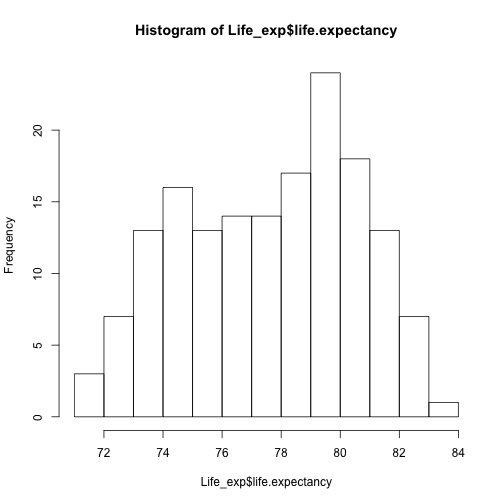
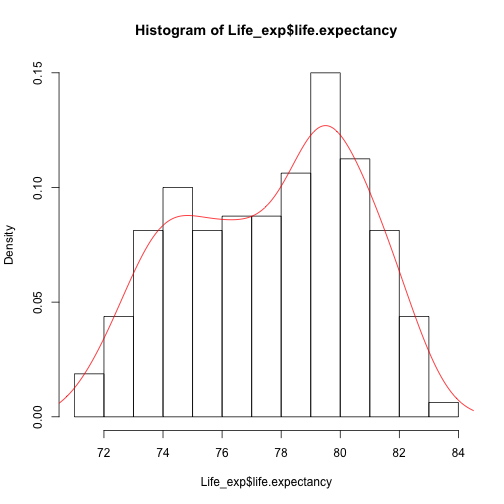
session1

diff --git a/Statistics2016/Session1_describe_the_data.md b/Statistics2016/Session1_describe_the_data.md
@@ -96,22 +96,22 @@ Data Source: Office for National Statistics
 Load data
 
 ```r
-Life_exp<-read.csv("data/Life_expectancy_at_birth.csv",header=T)
+> Life_exp<-read.csv("data/Life_expectancy_at_birth.csv",header=T)
 ```
 
 Recap some basic R functions (1/6)
 ========================================================
-- str(), head(), dim(), colnames() and summary() functions
+- **str()**, **head()**, **dim()**, **colnames()** and **summary()** functions
 - more details please see "Reproducible R course" [# hyperlink to the course]
 
 
 Recap some basic R functions (2/6)
 ========================================================
 
-head(): See the first 6 lines of an R object
+**head()**: See the first 6 lines of an R object
 
 ```r
-head(Life_exp)
+> head(Life_exp)
 ```
 
 ```
@@ -127,10 +127,10 @@ head(Life_exp)
 Recap some basic R functions (3/6)
 ========================================================
 
-str(): Compactly display the internal structure of an R object
+**str()**: Compactly display the internal structure of an R object
 
 ```r
-str(Life_exp)
+> str(Life_exp)
 ```
 
 ```
@@ -146,7 +146,7 @@ Recap some basic R functions (4/6)
 see the how many rows and columns in "Life_exp"
 
 ```r
-dim(Life_exp)
+> dim(Life_exp)
 ```
 
 ```
@@ -156,7 +156,7 @@ dim(Life_exp)
 see column names of "Life_exp"
 
 ```r
-colnames(Life_exp)
+> colnames(Life_exp)
 ```
 
 ```
@@ -168,7 +168,7 @@ Recap some basic R functions (5/6)
 
 
 ```r
-summary(Life_exp)
+> summary(Life_exp)
 ```
 
 ```
@@ -185,7 +185,7 @@ summary(Life_exp)
 Recap some basic R functions (6/6)
 ========================================================
 
-ftable(): Create ‘flat’ contingency tables
+**ftable()**: Create ‘flat’ contingency tables
 
 ```r
 ftable(Life_exp[,c("area","gender")])
@@ -209,10 +209,12 @@ Data shape - use "Life_exp$life.expectancy"
 
 Data shape - work with plots (1/6)
 ========================================================
-Scatter plot
+
+Scatter plot: plot the life.expectancy against index
+
 
 ```r
-plot(Life_exp$life.expectancy,ylab="Life expectancy (Years)")
+> plot(Life_exp$life.expectancy,ylab="Life expectancy (Years)")
 ```
 
 ![plot of chunk unnamed-chunk-9](Session1_describe_the_data-figure/unnamed-chunk-9-1.png)
@@ -221,26 +223,23 @@ Spread of data - work with plots (2/6)
 ========================================================
 sort the data from min to max
 
-```r
-plot(sort(Life_exp$life.expectancy),ylab="Life expectancy (Years)")
-```
-
 ![plot of chunk unnamed-chunk-10](Session1_describe_the_data-figure/unnamed-chunk-10-1.png)
+***
 
+start to see something here...
+
+![plot of chunk unnamed-chunk-11](Session1_describe_the_data-figure/unnamed-chunk-11-1.png)
 
 Spread of data - work with plots (3/6)
 ========================================================
 **min()**, **max()**, **median()**, **range()** and **quantile()** functions
 
 ```r
-min.life.exp<-min(Life_exp$life.expectancy)
-max.life.exp<-max(Life_exp$life.expectancy)
-median.life.exp<-median(Life_exp$life.expectancy)
-mean.life.exp<-mean(Life_exp$life.expectancy)
-```
-
-```r
-c(min.life.exp, max.life.exp, median.life.exp, mean.life.exp)
+> min.life.exp<-min(Life_exp$life.expectancy)
+> max.life.exp<-max(Life_exp$life.expectancy)
+> median.life.exp<-median(Life_exp$life.expectancy)
+> mean.life.exp<-mean(Life_exp$life.expectancy)
+> c(min.life.exp, max.life.exp, median.life.exp, mean.life.exp)
 ```
 
 ```
@@ -248,7 +247,7 @@ c(min.life.exp, max.life.exp, median.life.exp, mean.life.exp)
 ```
 
 ```r
-range(Life_exp$life.expectancy)
+> range(Life_exp$life.expectancy)
 ```
 
 ```
@@ -256,7 +255,7 @@ range(Life_exp$life.expectancy)
 ```
 
 ```r
-quantile(Life_exp$life.expectancy)
+> quantile(Life_exp$life.expectancy)
 ```
 
 ```
@@ -264,16 +263,17 @@ quantile(Life_exp$life.expectancy)
 71.470 75.085 78.005 79.910 83.010 
 ```
 
-
 Spread of data - work with plots (4/6)
 ========================================================
+Left: 40%
+
 Boxplot
 
-![plot of chunk unnamed-chunk-14](Session1_describe_the_data-figure/unnamed-chunk-14-1.png)
+![plot of chunk unnamed-chunk-13](Session1_describe_the_data-figure/unnamed-chunk-13-1.png)
 ***
 
 ```r
-c(min.life.exp, max.life.exp)
+> c(min.life.exp, max.life.exp)
 ```
 
 ```
@@ -281,7 +281,7 @@ c(min.life.exp, max.life.exp)
 ```
 
 ```r
-c(median.life.exp, mean.life.exp)
+> c(median.life.exp, mean.life.exp)
 ```
 
 ```
@@ -289,7 +289,7 @@ c(median.life.exp, mean.life.exp)
 ```
 
 ```r
-quantile(Life_exp$life.expectancy)[c(2,4)]
+> quantile(Life_exp$life.expectancy)[c(2,4)]
 ```
 
 ```
@@ -301,33 +301,33 @@ quantile(Life_exp$life.expectancy)[c(2,4)]
 Spread of data - work with plots (5/6)
 ========================================================
 
-![plot of chunk unnamed-chunk-16](Session1_describe_the_data-figure/unnamed-chunk-16-1.png)
+![plot of chunk unnamed-chunk-15](Session1_describe_the_data-figure/unnamed-chunk-15-1.png)
 
 Spread of data -  work with plots (6/6)
 ========================================================
-summary()
+**summary()**
 
 ```r
-summary(Life_exp$life.expectancy)
+> summary(Life_exp$life.expectancy)
 ```
 
 ```
    Min. 1st Qu.  Median    Mean 3rd Qu.    Max. 
   71.47   75.09   78.00   77.63   79.91   83.01 
 ```
-range(): show the minimum and maximum
+**range()**: show the minimum and maximum
 
 ```r
-range(Life_exp$life.expectancy)
+> range(Life_exp$life.expectancy)
 ```
 
 ```
 [1] 71.47 83.01
 ```
-IQR(): show the interquartile range, i.e. 3rd quartile-1st quartile
+**IQR()**: show the interquartile range, i.e. 3rd quartile - 1st quartile
 
 ```r
-IQR(Life_exp$life.expectancy)
+> IQR(Life_exp$life.expectancy)
 ```
 
 ```
@@ -349,9 +349,9 @@ $$
 $$
 
 ```r
-var.life.exp<-sum((Life_exp$life.expectancy-mean.life.exp)^2)/(nrow(Life_exp)-1)
-sd.life.exp<-sqrt(var.life.exp)
-c(var.life.exp, sd.life.exp)
+> var.life.exp<-sum((Life_exp$life.expectancy-mean.life.exp)^2)/(nrow(Life_exp)-1)
+> sd.life.exp<-sqrt(var.life.exp)
+> c(var.life.exp, sd.life.exp)
 ```
 
 ```
@@ -362,7 +362,7 @@ Spread of data - var() and sd() function
 ========================================================
 
 ```r
-var(Life_exp$life.expectancy)
+> var(Life_exp$life.expectancy)
 ```
 
 ```
@@ -370,7 +370,7 @@ var(Life_exp$life.expectancy)
 ```
 
 ```r
-sd(Life_exp$life.expectancy)
+> sd(Life_exp$life.expectancy)
 ```
 
 ```
@@ -383,7 +383,18 @@ Data shape - histogram
 
 
 ```r
-hist(Life_exp$life.expectancy,breaks=10)
+> hist(Life_exp$life.expectancy,breaks=10)
+```
+
+![plot of chunk unnamed-chunk-21](Session1_describe_the_data-figure/unnamed-chunk-21-1.png)
+
+Data shape - histogram
+========================================================
+
+
+```r
+> hist(Life_exp$life.expectancy,breaks=10,freq = F)
+> lines(density(Life_exp$life.expectancy),col="red")
 ```
 
 ![plot of chunk unnamed-chunk-22](Session1_describe_the_data-figure/unnamed-chunk-22-1.png)
@@ -391,25 +402,14 @@ hist(Life_exp$life.expectancy,breaks=10)
 Data shape - histogram
 ========================================================
 
-
-```r
-hist(Life_exp$life.expectancy,breaks=10,freq = F)
-lines(density(Life_exp$life.expectancy),col="red")
-```
-
 ![plot of chunk unnamed-chunk-23](Session1_describe_the_data-figure/unnamed-chunk-23-1.png)
-
-Data shape - histogram
-========================================================
-
-![plot of chunk unnamed-chunk-24](Session1_describe_the_data-figure/unnamed-chunk-24-1.png)
 
 
 Data shape - violin plot
 ========================================================
+Left: 40%
 
-
-![plot of chunk unnamed-chunk-25](Session1_describe_the_data-figure/unnamed-chunk-25-1.png)
+![plot of chunk unnamed-chunk-24](Session1_describe_the_data-figure/unnamed-chunk-24-1.png)
 ***
 
 
@@ -419,30 +419,13 @@ library("vioplot")
 ```
 
 ```r
-vioplot(Life_exp$life.expectancy,
-        ylim=range(Life_exp$life.expectancy),
-        horizontal = T)
+> vioplot(Life_exp$life.expectancy,
++         ylim=range(Life_exp$life.expectancy),
++         horizontal = T)
 ```
 
-![plot of chunk unnamed-chunk-27](Session1_describe_the_data-figure/unnamed-chunk-27-1.png)
+![plot of chunk unnamed-chunk-26](Session1_describe_the_data-figure/unnamed-chunk-26-1.png)
 
-Data shape - histogram
-========================================================
-
-
-```r
-Eng.life.exp<-Life_exp[Life_exp$area=="England",]
-boxplot(life.expectancy~area,data=Life_exp,las=2, cex.axis=0.6)
-```
-
-![plot of chunk unnamed-chunk-28](Session1_describe_the_data-figure/unnamed-chunk-28-1.png)
-
-```r
-boxplot(life.expectancy~gender*area,data=Life_exp,col=(c("gold","darkgreen")),
-        las=2, cex.axis=0.6)
-```
-
-![plot of chunk unnamed-chunk-28](Session1_describe_the_data-figure/unnamed-chunk-28-2.png)
 Time for an exercise!
 ========================================================
 
@@ -513,8 +496,8 @@ rnorm(10,mean=8,sd=3)
 ```
 
 ```
- [1]  1.757759 11.002107  9.587035  8.061594  6.562935  9.752966  5.612643
- [8] 11.671348 10.707884 10.432739
+ [1] 12.223993 12.486807  4.319434  6.949653 12.584465 10.243158 12.748394
+ [8]  6.436038  7.954729  9.458806
 ```
 
 Normal distribution example 1 (2/2)
